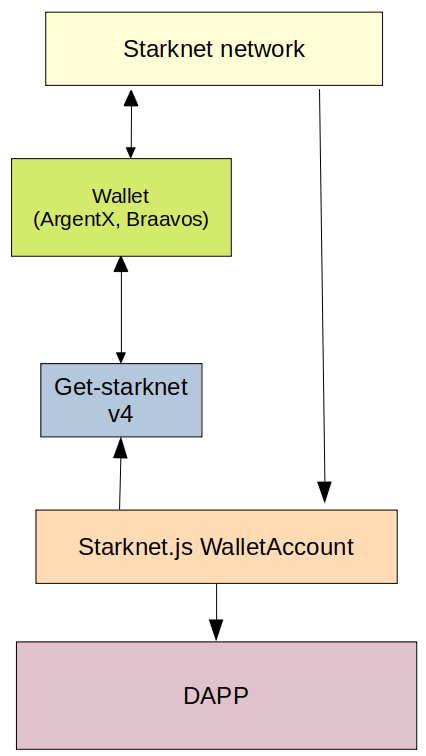
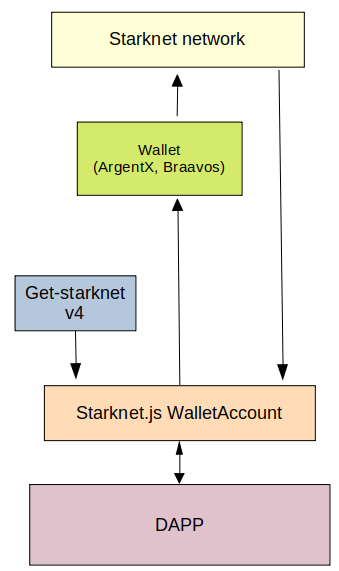
doc: change architecture

diff --git a/README.md b/README.md
@@ -14,34 +14,37 @@ The `Wallet API` tab is exposing all the low level entry points of this new API 
 The `WalletAccount` tab allows you to test some features of this new class of Starknet.js v6.8.
 ![](./Images/WalletAccount.png)
 Let's see more in detail this WalletAccount. It's very similar to a Starknet.js `Account` class. There is anyway a huge difference : the private key is hold in a browser wallet (as ArgentX or Braavos), and any signature is managed by the wallet.  
-The architecture is :  
-![](./Images/architecture.png)  
+The architecture is : 
+<p align="center">
+  <img src="./Images/architecture.png" />
+</p>  
 
-If you want to read Starknet, the WalletAccount will read directly the blockchain. That's why at the initialization of a WalletAccount, you need to put in the parameters a Provider instance, that will be used for all reading activities.
+If you want to read Starknet, the WalletAccount will read directly the blockchain. That's why at the initialization of a WalletAccount, you need to put in the parameters a Provider instance. It will be used for all reading activities.
 
 If you want to write to Starknet, the WalletAccount will ask to the Wallet to sign and send the transaction.  
-As several Wallet can be installed in your browser, the WalletAccount needs the ID of a wallet. You can ask to get-starknet to display a list of available wallets and to select the one to use.  
-You can also create your own UI to select the wallet. In this DAPP, I have created a custom UI [here](./src/app/components/client/WalletHandle/SelectWallet.tsx).
+As several Wallets can be installed in your browser, the WalletAccount needs the ID of one of the available wallets. You can ask to get-starknet to display a list of available wallets and to provide as a response the ID of the selected wallet.  
+You can also create your own UI to select the wallet. In this DAPP, I have created a custom UI [here](./src/app/components/client/WalletHandle/SelectWallet.tsx).  
 So, you instantiate a new Wallet account with :
 ```typescript
-import { connect } from "get-starknet";
+import { connect } from "get-starknet"; // v4.0.0
 const myFrontendProvider = "https://free-rpc.nethermind.io/sepolia-juno/v0_7";
 // UI to select a wallet :
 const selectedWallet = await connect({ modalMode: "alwaysAsk", modalTheme: "light" }); 
 const my WAccount = new WalletAccount(myFrontendProvider, selectedWallet);
 ```
-Then you can use all the power of Starknet.js, exactly as a normal Account instance. And you have some extra functionalities :
+Then you can use all the power of Starknet.js, exactly as a with a normal Account instance.  
+And you have some extra functionalities :
 - subscription to account / network change in the wallet.
 - direct access to the wallet API entry points.
 
 
 ## specification :
 
-The official specification of the wallet API is here : https://github.com/starkware-libs/starknet-specs/wallet-api/wallet_rpc.json
+The official Starkware specification of the wallet API is here : https://github.com/starkware-libs/starknet-specs/wallet-api/wallet_rpc.json
 
 The corresponding TypeScript library is here : https://github.com/starknet-io/types-js
 
-**An easier to read documentation I created : [here](doc/walletAPIspec.md)**
+**An easier to read documentation I created is [here](doc/walletAPIspec.md)**
 
 ## Getting Started 🚀 :
 

diff --git a/doc/walletAPIspec.md b/doc/walletAPIspec.md
@@ -1,6 +1,6 @@
-> version : v1.1.0 xx/xx/2024, in accordance with official spec https://github.com/starkware-libs/starknet-specs/pull/203/files
-> version : v1.0.2 08/feb/2024
-> version : v1.0.1 07/feb/2024
+> version : v1.1.0 xx/xx/2024, in accordance with official spec https://github.com/starkware-libs/starknet-specs/pull/203/files  
+> version : v1.0.2 08/feb/2024  
+> version : v1.0.1 07/feb/2024  
 
 This temporary document has to be considered as the documentation of the new interface between DAPPS and Starknet browser wallets.
 
